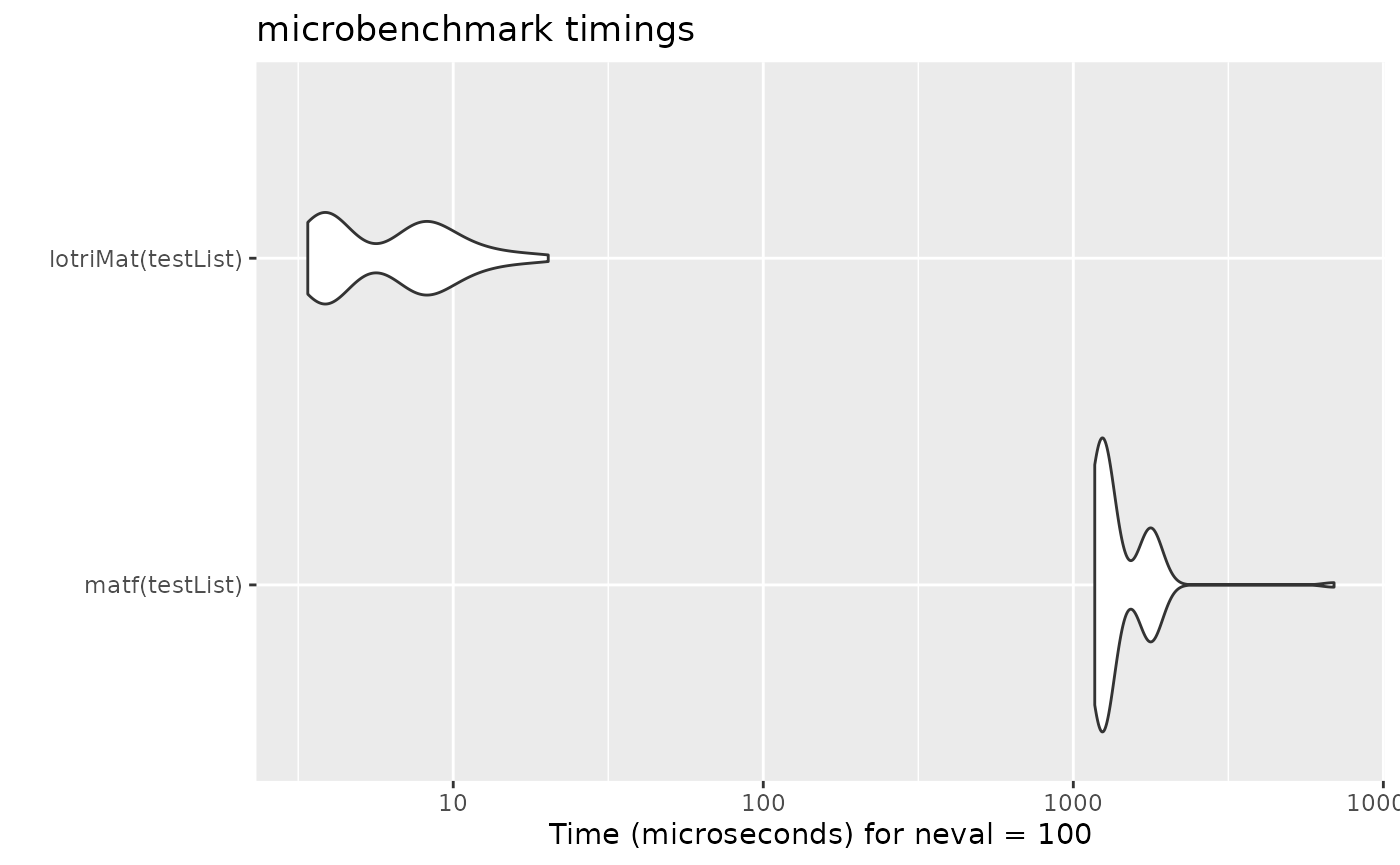
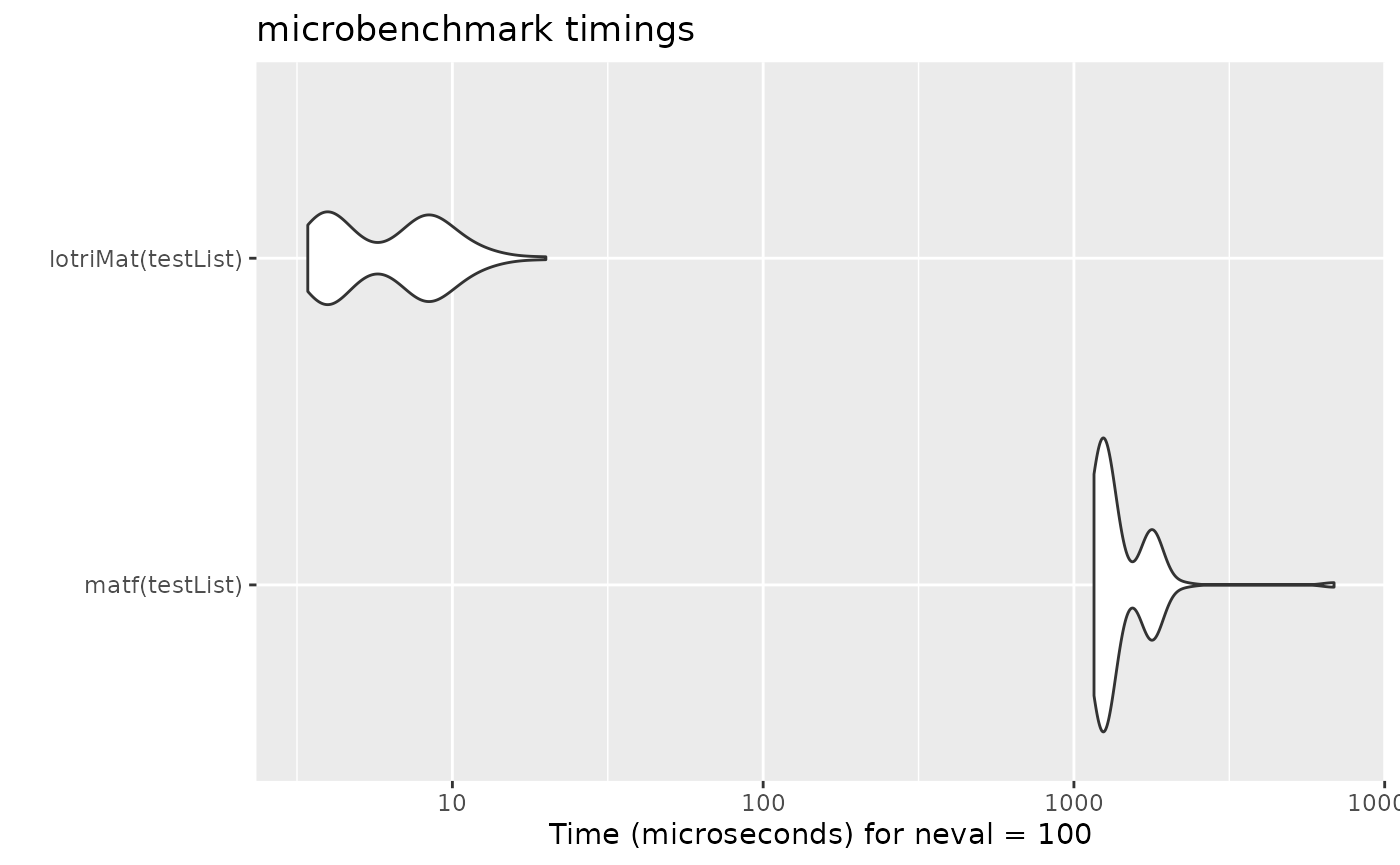
Deploying to gh-pages from @ nlmixr2/lotri@b2a8dba5b5a4130cf0e91f5948b633c0334dfa52 🚀

diff --git a/reference/dot-lotriPointers.html b/reference/dot-lotriPointers.html
@@ -60,34 +60,34 @@
     <div class="sourceCode"><pre class="sourceCode r"><code><span class="r-in"><span></span></span>
 <span class="r-in"><span><span class="fu">.lotriPointers</span><span class="op">(</span><span class="op">)</span></span></span>
 <span class="r-out co"><span class="r-pr">#&gt;</span> $lotriLstToMat</span>
-<span class="r-out co"><span class="r-pr">#&gt;</span> &lt;pointer: 0x7f99d59f1590&gt;</span>
+<span class="r-out co"><span class="r-pr">#&gt;</span> &lt;pointer: 0x7fa0d8cec8d0&gt;</span>
 <span class="r-out co"><span class="r-pr">#&gt;</span> </span>
 <span class="r-out co"><span class="r-pr">#&gt;</span> $asLotriMat</span>
-<span class="r-out co"><span class="r-pr">#&gt;</span> &lt;pointer: 0x7f99d59ef280&gt;</span>
+<span class="r-out co"><span class="r-pr">#&gt;</span> &lt;pointer: 0x7fa0d8cea5c0&gt;</span>
 <span class="r-out co"><span class="r-pr">#&gt;</span> </span>
 <span class="r-out co"><span class="r-pr">#&gt;</span> $lotriSep</span>
-<span class="r-out co"><span class="r-pr">#&gt;</span> &lt;pointer: 0x7f99d59f33d0&gt;</span>
+<span class="r-out co"><span class="r-pr">#&gt;</span> &lt;pointer: 0x7fa0d8cee710&gt;</span>
 <span class="r-out co"><span class="r-pr">#&gt;</span> </span>
 <span class="r-out co"><span class="r-pr">#&gt;</span> $lotriAllNames</span>
-<span class="r-out co"><span class="r-pr">#&gt;</span> &lt;pointer: 0x7f99d59f3980&gt;</span>
+<span class="r-out co"><span class="r-pr">#&gt;</span> &lt;pointer: 0x7fa0d8ceecc0&gt;</span>
 <span class="r-out co"><span class="r-pr">#&gt;</span> </span>
 <span class="r-out co"><span class="r-pr">#&gt;</span> $lotriGetBounds</span>
-<span class="r-out co"><span class="r-pr">#&gt;</span> &lt;pointer: 0x7f99d59ef930&gt;</span>
+<span class="r-out co"><span class="r-pr">#&gt;</span> &lt;pointer: 0x7fa0d8ceac70&gt;</span>
 <span class="r-out co"><span class="r-pr">#&gt;</span> </span>
 <span class="r-out co"><span class="r-pr">#&gt;</span> $lotriMaxNu</span>
-<span class="r-out co"><span class="r-pr">#&gt;</span> &lt;pointer: 0x7f99d59f2e60&gt;</span>
+<span class="r-out co"><span class="r-pr">#&gt;</span> &lt;pointer: 0x7fa0d8cee1a0&gt;</span>
 <span class="r-out co"><span class="r-pr">#&gt;</span> </span>
 <span class="r-out co"><span class="r-pr">#&gt;</span> $isLotri</span>
-<span class="r-out co"><span class="r-pr">#&gt;</span> &lt;pointer: 0x7f99d59f3850&gt;</span>
+<span class="r-out co"><span class="r-pr">#&gt;</span> &lt;pointer: 0x7fa0d8ceeb90&gt;</span>
 <span class="r-out co"><span class="r-pr">#&gt;</span> </span>
 <span class="r-out co"><span class="r-pr">#&gt;</span> $lotriRcm</span>
-<span class="r-out co"><span class="r-pr">#&gt;</span> &lt;pointer: 0x7f99d59fdc80&gt;</span>
+<span class="r-out co"><span class="r-pr">#&gt;</span> &lt;pointer: 0x7fa0d8cf92b0&gt;</span>
 <span class="r-out co"><span class="r-pr">#&gt;</span> </span>
 <span class="r-out co"><span class="r-pr">#&gt;</span> $lotriNearPDc</span>
-<span class="r-out co"><span class="r-pr">#&gt;</span> &lt;pointer: 0x7f99d59f8f00&gt;</span>
+<span class="r-out co"><span class="r-pr">#&gt;</span> &lt;pointer: 0x7fa0d8cf3dd0&gt;</span>
 <span class="r-out co"><span class="r-pr">#&gt;</span> </span>
 <span class="r-out co"><span class="r-pr">#&gt;</span> $lotriNearPDsexp</span>
-<span class="r-out co"><span class="r-pr">#&gt;</span> &lt;pointer: 0x7f99d59f9440&gt;</span>
+<span class="r-out co"><span class="r-pr">#&gt;</span> &lt;pointer: 0x7fa0d8cf47e0&gt;</span>
 <span class="r-out co"><span class="r-pr">#&gt;</span> </span>
 </code></pre></div>
     </div>

diff --git a/news/index.html b/news/index.html
@@ -106,7 +106,8 @@
 </div>
 <div class="section level3">
 <h3 id="bug-fixes-1-0-5">Bug fixes<a class="anchor" aria-label="anchor" href="#bug-fixes-1-0-5"></a></h3>
-<ul><li><p>Labels now follow the matrix when <code>rcm=TRUE</code> re-orders it. Previously the labels stayed in the order they were parsed in while the matrix was permuted, so they were applied to the wrong parameters.</p></li>
+<ul><li><p><code><a href="../reference/lotri.html">lotri()</a></code> can now re-parse the named <code><a href="https://rdrr.io/r/base/c.html" class="external-link">c()</a></code> form that <code><a href="../reference/lotriAsExpression.html">lotriAsExpression()</a></code>/<code><a href="https://rdrr.io/r/base/expression.html" class="external-link">as.expression()</a></code> writes for a matrix above <code>nameEst</code>’s size threshold when a later row’s names reach back into an earlier, already-closed block – as happens for a combined theta+omega covariance matrix, where every omega row names all the preceding theta rows too. Previously an <code>om.</code>-prefixed row in that position was always misread as the <code>om.</code> normal prior shorthand instead of the next row of the matrix itself (<a href="https://github.com/nlmixr2/lotri/issues/53" class="external-link">#53</a>).</p></li>
+<li><p>Labels now follow the matrix when <code>rcm=TRUE</code> re-orders it. Previously the labels stayed in the order they were parsed in while the matrix was permuted, so they were applied to the wrong parameters.</p></li>
 <li><p><code>lotriLabels</code> are no longer dropped when matrices are combined (ie <code>lotri(mat1, mat2)</code> or <code><a href="../reference/lotriMat.html">lotriMat()</a></code>); they are now concatenated in C along with the matrix itself.</p></li>
 <li><p><code><a href="https://rdrr.io/r/base/expression.html" class="external-link">as.expression()</a></code> now works on a <code>lotri</code> object that has only population estimates and no matrix; it used to fail with “second argument must be a list”.</p></li>
 <li><p>Fixed rchk issues and small bugs found while linting</p></li>

diff --git a/articles/lotri-motivation.html b/articles/lotri-motivation.html
@@ -65,7 +65,7 @@
                         <h4 data-toc-skip class="author">Matthew
 Fidler</h4>
             
-            <h4 data-toc-skip class="date">2026-08-15</h4>
+            <h4 data-toc-skip class="date">2026-08-24</h4>
       
       <small class="dont-index">Source: <a href="https://github.com/nlmixr2/lotri/blob/main/vignettes/lotri-motivation.Rmd" class="external-link"><code>vignettes/lotri-motivation.Rmd</code></a></small>
       <div class="d-none name"><code>lotri-motivation.Rmd</code></div>
@@ -228,9 +228,9 @@ concatenation with <code>lotriMat</code></p>
 <span></span>
 <span><span class="fu"><a href="https://rdrr.io/r/base/print.html" class="external-link">print</a></span><span class="op">(</span><span class="va">mb</span><span class="op">)</span></span>
 <span><span class="co">#&gt; Unit: microseconds</span></span>
-<span><span class="co">#&gt;                expr      min       lq       mean   median        uq      max</span></span>
-<span><span class="co">#&gt;      matf(testList) 1172.619 1217.881 1446.77358 1262.276 1724.2670 6934.932</span></span>
-<span><span class="co">#&gt;  lotriMat(testList)    3.395    3.891    6.92487    7.015    8.6325   20.250</span></span>
+<span><span class="co">#&gt;                expr      min       lq      mean    median       uq     max</span></span>
+<span><span class="co">#&gt;      matf(testList) 1160.519 1221.659 1447.6932 1260.4315 1757.133 6872.84</span></span>
+<span><span class="co">#&gt;  lotriMat(testList)    3.425    4.021    6.7759    6.9355    8.633   19.99</span></span>
 <span><span class="co">#&gt;  neval</span></span>
 <span><span class="co">#&gt;    100</span></span>
 <span><span class="co">#&gt;    100</span></span>

diff --git a/articles/lotri-priors.html b/articles/lotri-priors.html
@@ -65,7 +65,7 @@
                         <h4 data-toc-skip class="author">Matthew
 Fidler</h4>
             
-            <h4 data-toc-skip class="date">2026-08-15</h4>
+            <h4 data-toc-skip class="date">2026-08-24</h4>
       
       <small class="dont-index">Source: <a href="https://github.com/nlmixr2/lotri/blob/main/vignettes/lotri-priors.Rmd" class="external-link"><code>vignettes/lotri-priors.Rmd</code></a></small>
       <div class="d-none name"><code>lotri-priors.Rmd</code></div>

diff --git a/news/index.md b/news/index.md
@@ -160,6 +160,18 @@ rather than being evaluated as a variance.
 
 ### Bug fixes
 
+- [`lotri()`](https://nlmixr2.github.io/lotri/reference/lotri.md) can
+  now re-parse the named [`c()`](https://rdrr.io/r/base/c.html) form
+  that
+  [`lotriAsExpression()`](https://nlmixr2.github.io/lotri/reference/lotriAsExpression.md)/[`as.expression()`](https://rdrr.io/r/base/expression.html)
+  writes for a matrix above `nameEst`’s size threshold when a later
+  row’s names reach back into an earlier, already-closed block – as
+  happens for a combined theta+omega covariance matrix, where every
+  omega row names all the preceding theta rows too. Previously an
+  `om.`-prefixed row in that position was always misread as the `om.`
+  normal prior shorthand instead of the next row of the matrix itself
+  ([\#53](https://github.com/nlmixr2/lotri/issues/53)).
+
 - Labels now follow the matrix when `rcm=TRUE` re-orders it. Previously
   the labels stayed in the order they were parsed in while the matrix
   was permuted, so they were applied to the wrong parameters.

diff --git a/reference/dot-lotriPointers.md b/reference/dot-lotriPointers.md
@@ -23,33 +23,33 @@ Matthew L. Fidler
 
 .lotriPointers()
 #> $lotriLstToMat
-#> <pointer: 0x7f99d59f1590>
+#> <pointer: 0x7fa0d8cec8d0>
 #> 
 #> $asLotriMat
-#> <pointer: 0x7f99d59ef280>
+#> <pointer: 0x7fa0d8cea5c0>
 #> 
 #> $lotriSep
-#> <pointer: 0x7f99d59f33d0>
+#> <pointer: 0x7fa0d8cee710>
 #> 
 #> $lotriAllNames
-#> <pointer: 0x7f99d59f3980>
+#> <pointer: 0x7fa0d8ceecc0>
 #> 
 #> $lotriGetBounds
-#> <pointer: 0x7f99d59ef930>
+#> <pointer: 0x7fa0d8ceac70>
 #> 
 #> $lotriMaxNu
-#> <pointer: 0x7f99d59f2e60>
+#> <pointer: 0x7fa0d8cee1a0>
 #> 
 #> $isLotri
-#> <pointer: 0x7f99d59f3850>
+#> <pointer: 0x7fa0d8ceeb90>
 #> 
 #> $lotriRcm
-#> <pointer: 0x7f99d59fdc80>
+#> <pointer: 0x7fa0d8cf92b0>
 #> 
 #> $lotriNearPDc
-#> <pointer: 0x7f99d59f8f00>
+#> <pointer: 0x7fa0d8cf3dd0>
 #> 
 #> $lotriNearPDsexp
-#> <pointer: 0x7f99d59f9440>
+#> <pointer: 0x7fa0d8cf47e0>
 #> 
 ```

diff --git a/articles/lotri-motivation.md b/articles/lotri-motivation.md
@@ -179,9 +179,9 @@ mb <- microbenchmark(matf(testList),lotriMat(testList))
 
 print(mb)
 #> Unit: microseconds
-#>                expr      min       lq       mean   median        uq      max
-#>      matf(testList) 1172.619 1217.881 1446.77358 1262.276 1724.2670 6934.932
-#>  lotriMat(testList)    3.395    3.891    6.92487    7.015    8.6325   20.250
+#>                expr      min       lq      mean    median       uq     max
+#>      matf(testList) 1160.519 1221.659 1447.6932 1260.4315 1757.133 6872.84
+#>  lotriMat(testList)    3.425    4.021    6.7759    6.9355    8.633   19.99
 #>  neval
 #>    100
 #>    100
